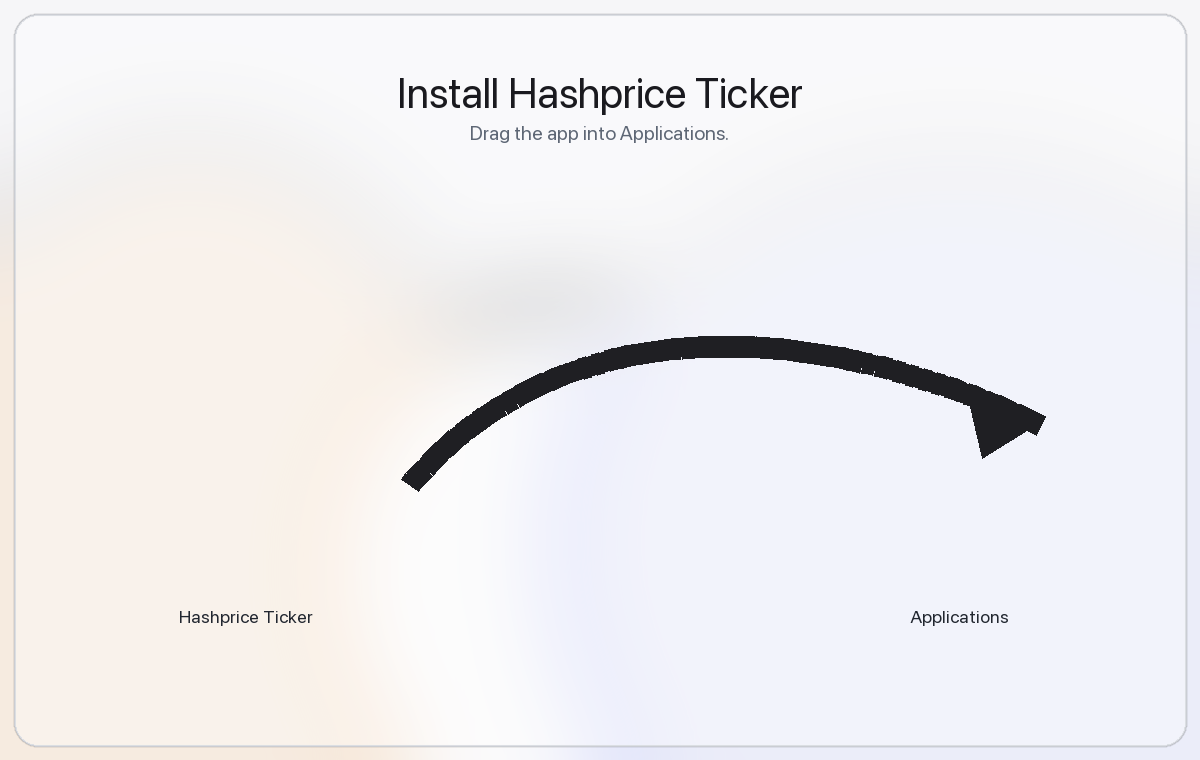
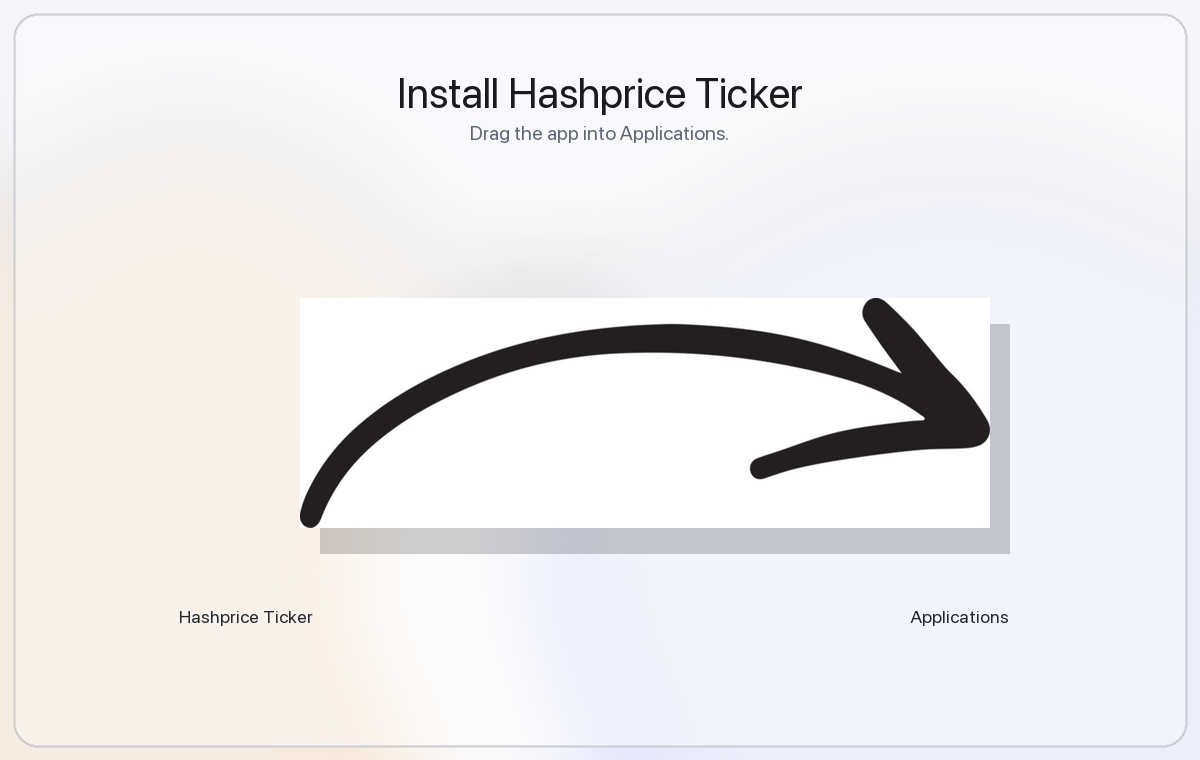
Use provided arrow for DMG install layout

Changed region(s): [[0.2467, 0.3934, 0.8942, 0.7263]]

diff --git a/macos/HashpriceTickerMacApp/design/generate_dmg_background.py b/macos/HashpriceTickerMacApp/design/generate_dmg_background.py
@@ -7,6 +7,7 @@ from PIL import Image, ImageDraw, ImageFilter, ImageFont
 WIDTH = 1200
 HEIGHT = 760
 OUTPUT = Path(__file__).with_name("dmg-background.png")
+ARROW_SOURCE = Path("/Users/jl/Downloads/arrow.jpg")
 
 
 def load_font(size: int, bold: bool = False) -> ImageFont.FreeTypeFont:
@@ -22,31 +23,15 @@ def load_font(size: int, bold: bool = False) -> ImageFont.FreeTypeFont:
     return ImageFont.load_default()
 
 
-def cubic_point(p0, p1, p2, p3, t: float):
-    mt = 1 - t
-    x = (
-        mt * mt * mt * p0[0]
-        + 3 * mt * mt * t * p1[0]
-        + 3 * mt * t * t * p2[0]
-        + t * t * t * p3[0]
-    )
-    y = (
-        mt * mt * mt * p0[1]
-        + 3 * mt * mt * t * p1[1]
-        + 3 * mt * t * t * p2[1]
-        + t * t * t * p3[1]
-    )
-    return (x, y)
-
-
-def draw_curved_arrow(draw: ImageDraw.ImageDraw):
-    points = [
-        cubic_point((410, 485), (575, 290), (845, 330), (1040, 425), step / 100)
-        for step in range(101)
-    ]
-    draw.line(points, fill=(31, 31, 35, 255), width=22, joint="curve")
-    head = [(1035, 425), (965, 385), (982, 458)]
-    draw.polygon(head, fill=(31, 31, 35, 255))
+def add_arrow(image: Image.Image):
+    arrow = Image.open(ARROW_SOURCE).convert("RGBA")
+    arrow = arrow.resize((690, 230), Image.Resampling.LANCZOS)
+    shadow = Image.new("RGBA", arrow.size, (0, 0, 0, 0))
+    shadow_draw = ImageDraw.Draw(shadow)
+    shadow_draw.bitmap((0, 0), arrow.split()[-1], fill=(0, 0, 0, 48))
+    shadow = shadow.filter(ImageFilter.GaussianBlur(10))
+    image.alpha_composite(shadow, (320, 324))
+    image.alpha_composite(arrow, (300, 298))
 
 
 def main():
@@ -92,7 +77,7 @@ def main():
         anchor="mm",
     )
 
-    draw_curved_arrow(draw)
+    add_arrow(image)
 
     draw.text(
         (246, 616),
